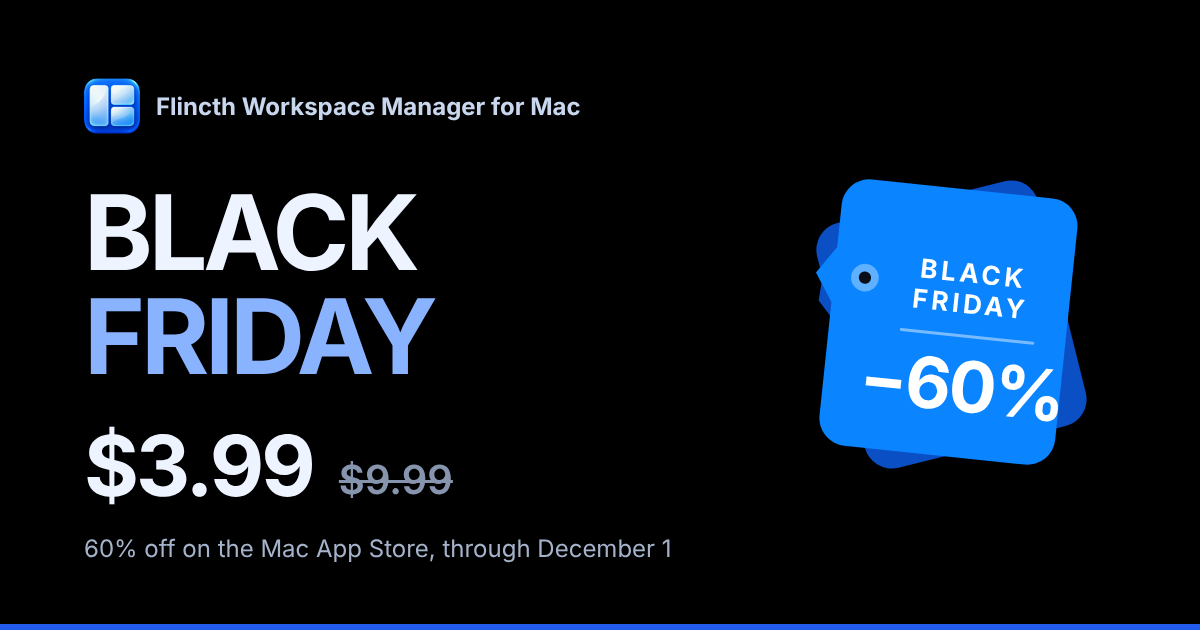
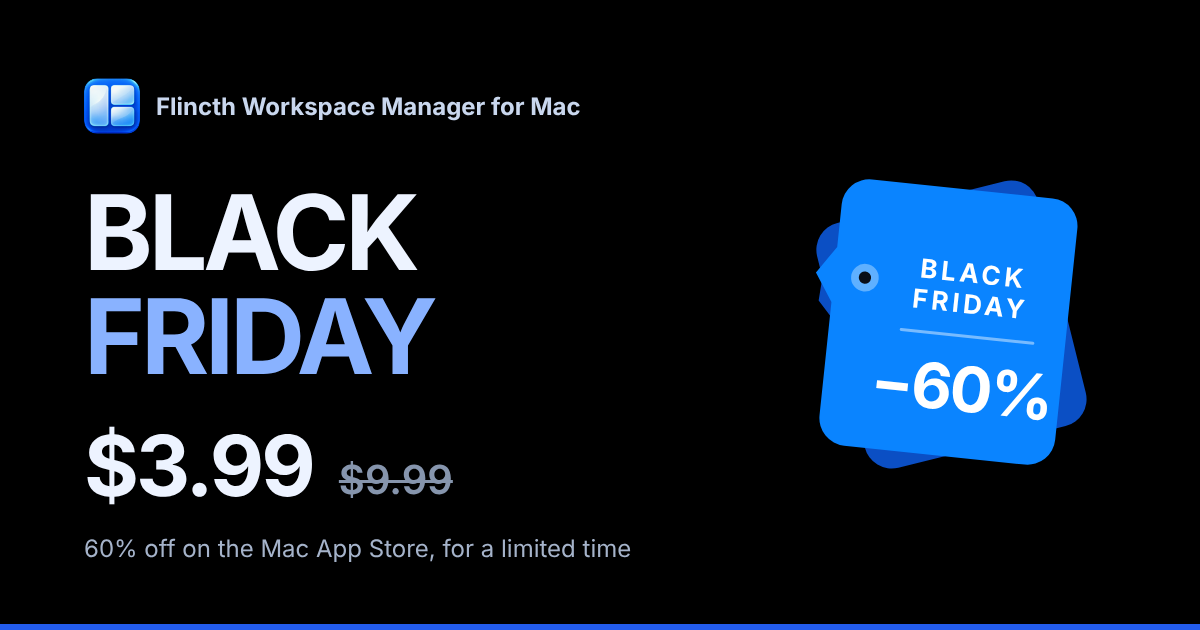
Drop the Black Friday end date from the site's copy
Naming December 1 and counting down 19 days told visitors there was
plenty of time to come back later. The bar, deal panel, deal card,
product card line, share image, pricing.md and llms.txt now say "for a
limited time"; sale.js shows "Ends tomorrow." and "Last day of the
deal." only in the sale's last two days.

Claude-Session: https://claude.ai/code/session_01CpC11h5A9UWY1cUixwwKyS

Changed region(s): [[0.7092, 0.5429, 0.8942, 0.6635], [0.37, 0.8444, 0.555, 0.9048]]

diff --git a/_includes/sale-bar.html b/_includes/sale-bar.html
@@ -6,6 +6,6 @@
 {%- include sale-state.html -%}
 {%- if sale_on %}
   <aside class="sale-bar" aria-label="{% include sale-text.html text=t.sale.label %}" data-sale-starts="{{ sale.starts }}" data-sale-ends="{{ sale.ends }}">
-    <div class="wrap sale-bar-inner"><span class="sale-pill">{% include sale-text.html text=t.sale.discount %}</span><p><span class="sale-bar-long">{% include sale-text.html text=t.sale.bar %} <span class="sale-countdown" data-sale-countdown data-days="{{ t.sale.ends_in | escape }}" data-last="{{ t.sale.last_day_left | escape }}"></span></span><span class="sale-bar-short">{% include sale-text.html text=t.sale.bar_short %}</span></p><a href="{{ site.data.mac.store_url }}" target="_blank" rel="noopener"><span class="sale-cta-long">{{ t.sale.bar_cta }}</span><span class="sale-cta-short">{{ t.sale.bar_cta_short }}</span> <span aria-hidden="true">→</span></a></div>
+    <div class="wrap sale-bar-inner"><span class="sale-pill">{% include sale-text.html text=t.sale.discount %}</span><p><span class="sale-bar-long">{% include sale-text.html text=t.sale.bar %} <span class="sale-countdown" data-sale-countdown data-tomorrow="{{ t.sale.ends_tomorrow | escape }}" data-last="{{ t.sale.last_day_left | escape }}"></span></span><span class="sale-bar-short">{% include sale-text.html text=t.sale.bar_short %}</span></p><a href="{{ site.data.mac.store_url }}" target="_blank" rel="noopener"><span class="sale-cta-long">{{ t.sale.bar_cta }}</span><span class="sale-cta-short">{{ t.sale.bar_cta_short }}</span> <span aria-hidden="true">→</span></a></div>
   </aside>
 {%- endif %}

diff --git a/mac/workspace-manager.html b/mac/workspace-manager.html
@@ -32,7 +32,7 @@ sitemap:
             <h2 id="deal-title">{% include sale-text.html text=_t.sale.heading %}</h2>
             <p>{% include sale-text.html text=_t.sale.text %}</p>
             <p class="deal-price"><strong><span class="visually-hidden">{% include sale-text.html text=_t.sale.now %}: </span>{% include usd.html amount=sale.price %}</strong> <s><span class="visually-hidden">{{ _t.sale.regular }}: </span>{% include usd.html amount=site.data.mac.price %}</s></p>
-            <div class="deal-actions"><a class="button primary" href="{{ site.data.mac.store_url }}" target="_blank" rel="noopener">{% include sale-text.html text=_t.sale.cta %}</a><span class="deal-ends" data-sale-countdown data-days="{{ _t.sale.ends_in | escape }}" data-last="{{ _t.sale.last_day_left | escape }}">{% include sale-text.html text=_t.sale.through %}</span></div>
+            <div class="deal-actions"><a class="button primary" href="{{ site.data.mac.store_url }}" target="_blank" rel="noopener">{% include sale-text.html text=_t.sale.cta %}</a><span class="deal-ends" data-sale-countdown data-tomorrow="{{ _t.sale.ends_tomorrow | escape }}" data-last="{{ _t.sale.last_day_left | escape }}">{{ _t.sale.limited }}</span></div>
           </div>
         </div>
       </div>

diff --git a/sale.js b/sale.js
@@ -1,8 +1,10 @@
 // Limited-time deal (sale in _data/mac.yml). Pages carry the deal only when
 // they were built during the sale; this removes every [data-sale-ends]
 // element once its end time passes (or before its start), shows the regular
-// price that [data-sale-after] holds in its place, and writes the whole days
-// left into [data-sale-countdown] from its data-days / data-last strings.
+// price that [data-sale-after] holds in its place, and in the sale's last two
+// days replaces the text of [data-sale-countdown] with its data-tomorrow or
+// data-last string. Before that it keeps its "Limited time" text: the end
+// date is never shown, so the deal does not read as one to come back for.
 (() => {
   const now = Date.now();
   let ended = false;
@@ -16,7 +18,8 @@
     }
     const days = Math.ceil((end - now) / 864e5);
     for (const c of el.querySelectorAll("[data-sale-countdown]")) {
-      c.textContent = days <= 1 ? c.dataset.last : c.dataset.days.replace("[days]", days);
+      if (days <= 1) c.textContent = c.dataset.last;
+      else if (days === 2) c.textContent = c.dataset.tomorrow;
     }
   }
   if (ended) {

diff --git a/_includes/sale-promo.html b/_includes/sale-promo.html
@@ -9,7 +9,7 @@
   {%- capture _wm_url %}{% include page-url.html ref="workspace-manager" %}{% endcapture %}
       <a class="sale-promo" href="{{ _wm_url }}#deal" data-sale-starts="{{ sale.starts }}" data-sale-ends="{{ sale.ends }}">
         <span class="sale-promo-off">{% include sale-text.html text=_t.sale.discount %}</span>
-        <span class="sale-promo-copy"><b>{{ sale.name }}</b><span>{% include sale-text.html text=_t.sale.promo %}</span><small>{% include sale-text.html text=_t.sale.through %} <span data-sale-countdown data-days="{{ _t.sale.ends_in | escape }}" data-last="{{ _t.sale.last_day_left | escape }}"></span></small></span>
+        <span class="sale-promo-copy"><b>{{ sale.name }}</b><span>{% include sale-text.html text=_t.sale.promo %}</span><small><span data-sale-countdown data-tomorrow="{{ _t.sale.ends_tomorrow | escape }}" data-last="{{ _t.sale.last_day_left | escape }}">{{ _t.sale.limited }}</span></small></span>
         <span class="sale-promo-cta">{{ _t.sale.promo_cta }} <span aria-hidden="true">→</span></span>
       </a>
 {%- endif %}

diff --git a/_includes/sale-text.html b/_includes/sale-text.html
@@ -5,5 +5,4 @@
 {%- endcomment -%}
 {%- capture _sale_price %}{% include usd.html amount=sale.price %}{% endcapture -%}
 {%- capture _sale_regular %}{% include usd.html amount=site.data.mac.price %}{% endcapture -%}
-{%- assign _sale_days = include.days | default: "" | append: "" -%}
-{{ include.text | replace: "[name]", sale.name | replace: "[price]", _sale_price | replace: "[regular]", _sale_regular | replace: "[off]", sale_off_percent | replace: "[last_day]", sale.last_day | replace: "[days]", _sale_days -}}
+{{ include.text | replace: "[name]", sale.name | replace: "[price]", _sale_price | replace: "[regular]", _sale_regular | replace: "[off]", sale_off_percent -}}

diff --git a/README.md b/README.md
@@ -50,7 +50,7 @@ The header, footer and cookie banner each live in one place; changing a link mea
 - `assets/app-icon.png`: Workspace Manager's app icon from the Flincth project (512 px source; `app-icon-64.png`, `-128`, `-192` are the sizes the pages load). Cropped from `Artwork/AppIcon-master.png` to the visible icon, without the macOS transparent margin, so it fills its box like the Speed Reader and Split View icons and all three render at the same size
 - `assets/reader-icon-64.png`, `-128`, `-192`: Speed Reader's app icon from the flincth-reader project (`Resources/Assets.xcassets/AppIcon.appiconset/reader-icon.png`, corners rounded for the web)
 - `assets/og-extension.png`: 1200×630 share image for the browser extension pages (set with `og_image` in their front matter)
-- `sale.js`, `_includes/sale-state.html`, `sale-bar.html`, `sale-promo.html`, `sale-text.html`: a limited-time Workspace Manager price, set in the `sale` block of `_data/mac.yml` (price, start, end, last day, share image). While a build falls inside the window, every page gets a deal bar above the header, the home and Mac pages a deal card (`_includes/sale-promo.html`), Workspace Manager's page a deal panel in its hero above the preview and the sale price on its main button, its product card a deal line, the comparison pages the sale price, `pricing.md` and `llms.txt` a sale line, and the home, Mac and Workspace Manager pages the sale share image. `sale.js` removes the deal in the visitor's browser when the end time passes, so it goes away on time without a new build; delete the `sale` block (and rebuild) afterwards to clean up the static parts. Copy is in `sale` in `_data/i18n/<lang>.yml`
+- `sale.js`, `_includes/sale-state.html`, `sale-bar.html`, `sale-promo.html`, `sale-text.html`: a limited-time Workspace Manager price, set in the `sale` block of `_data/mac.yml` (price, start, end, share image). While a build falls inside the window, every page gets a deal bar above the header, the home and Mac pages a deal card (`_includes/sale-promo.html`), Workspace Manager's page a deal panel in its hero above the preview and the sale price on its main button, its product card a deal line, the comparison pages the sale price, `pricing.md` and `llms.txt` a sale line, and the home, Mac and Workspace Manager pages the sale share image. `sale.js` removes the deal in the visitor's browser when the end time passes, so it goes away on time without a new build; delete the `sale` block (and rebuild) afterwards to clean up the static parts. Copy is in `sale` in `_data/i18n/<lang>.yml`; it says "for a limited time" and never names the end date, and only in the last two days does `sale.js` switch it to "Ends tomorrow." and "Last day of the deal."
 - `assets/black-friday-tag.svg`, `assets/og-black-friday.png`: Black Friday 2026 price tag (deal panel) and 1200×630 share image; remove them with the `sale` block when the sale is over
 - `assets/extension-icon.png`: Split View's icon from the Flincth browser extension project (`public/icons/icon128.png`), with `extension-icon-64.png` and `-128`
 

diff --git a/DESIGN.md b/DESIGN.md
@@ -157,10 +157,12 @@ under 1180 px a shorter line, and on phones a "Get it" button,
 the usual price struck through, a filled link to the store), a black card under
 the home page's hero and the Mac page's lead that links to the deal, a black
 panel in Workspace Manager's hero above the preview (price tag in the brand
-mark's two blues, heading, both prices, one primary button, days left) with the
+mark's two blues, heading, both prices, one primary button, "Limited time only.") with the
 sale price on the hero button, and a black line on its product card. Black is the day's
 colour and stays neutral; blue remains the only hue. Nothing about the deal is
-invented: the price, the discount and the last day all come from the data file.
+invented: the price and the discount come from the data file. The end date is
+never shown, so the deal does not read as one to come back for; the countdown
+appears only in the last two days ("Ends tomorrow.", "Last day of the deal.").
 
 ### Navigation
 Header: brand mark and wordmark, Products menu (`<details>`, products grouped
